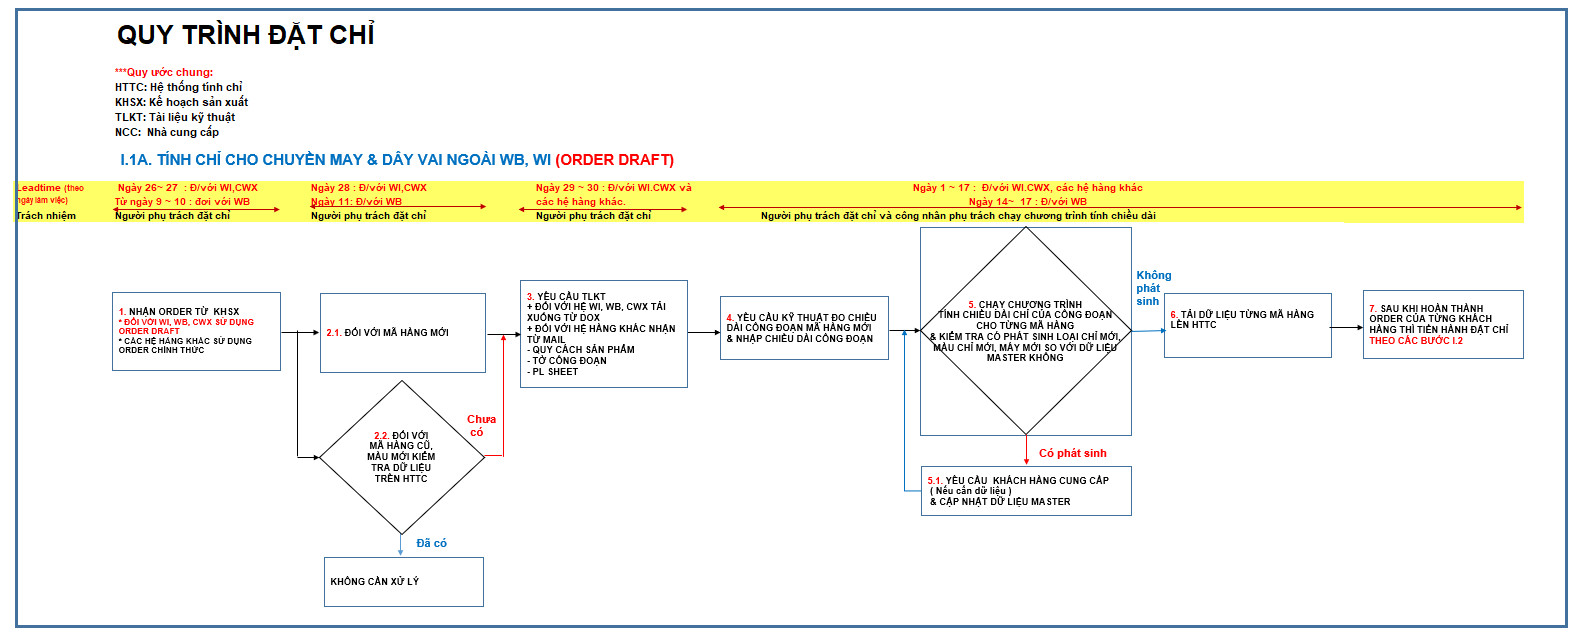
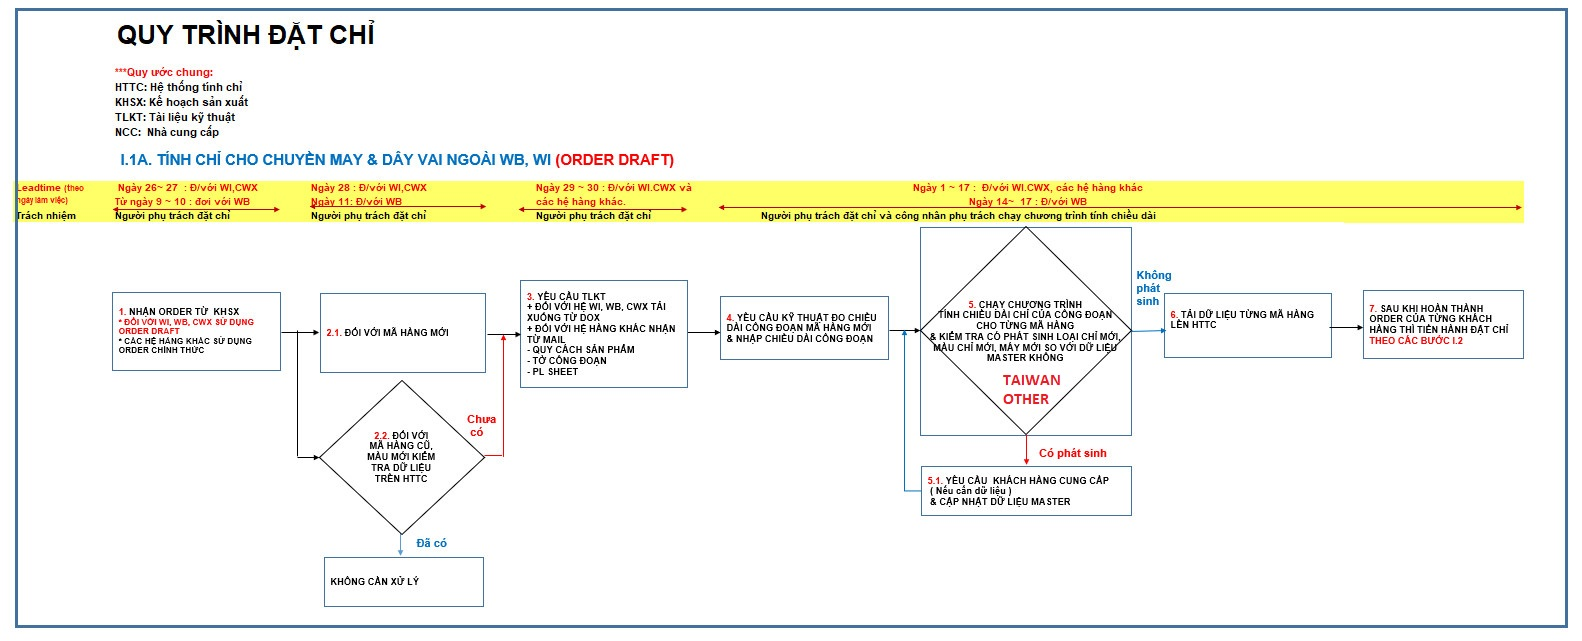
new code quy trinh kho 4:20 05-06-2024

diff --git a/Controlers/Kho/QTQLNVL.Control.js b/Controlers/Kho/QTQLNVL.Control.js
@@ -328,6 +328,14 @@ module.exports.QTQLNVLLoad = async(req,res) =>{
         })
     }
 
+    module.exports.TinhCDCD_5_TW= async(req, res) =>{
+        res.render('kho/QuyTrinh/TinhCDCD_5_TW',{
+            title:'',
+            userId:req.signedCookies.userId,
+           html:''
+        })
+    }
+
     module.exports.TinhCDCD_5= async(req, res) =>{
         res.render('kho/QuyTrinh/TinhCDCD_5',{
             title:'',
@@ -335,6 +343,26 @@ module.exports.QTQLNVLLoad = async(req,res) =>{
            html:''
         })
     }
+
+    module.exports.TinhChiChuyenMay_5_1= async(req, res) =>{
+        res.render('kho/QuyTrinh/TinhChiChuyenMay_5_1',{
+            title:'',
+            userId:req.signedCookies.userId,
+           html:''
+        })
+    }
+
+    
+
+    module.exports.TinhChiChuyenMay_6= async(req, res) =>{
+        res.render('kho/QuyTrinh/TinhChiChuyenMay_6',{
+            title:'',
+            userId:req.signedCookies.userId,
+           html:''
+        })
+    }
+
+    
 
     module.exports.YeuCauKyThuatDoCDCD_4= async(req, res) =>{
         res.render('kho/QuyTrinh/YeuCauKyThuatDoCDCD_4',{
@@ -426,6 +454,14 @@ module.exports.QTQLNVLLoad = async(req,res) =>{
 
     module.exports.QTQLNVLB8_1_I= async(req, res) =>{
         res.render('kho/QuyTrinh/QTQLNVLB8_1_I',{
+            title:'',
+            userId:req.signedCookies.userId,
+           html:''
+        })
+    }
+
+    module.exports.QTQLNVLB8_1_I_B1= async(req, res) =>{
+        res.render('kho/QuyTrinh/QTQLNVLB8_1_I_B1',{
             title:'',
             userId:req.signedCookies.userId,
            html:''

diff --git a/routes/kho.router.js b/routes/kho.router.js
@@ -135,7 +135,13 @@ router.get('/DoiVoiMHCuMauMoiTAIWAN',QTQLNVLControl.DoiVoiMHCuMauMoiTAIWAN)
 router.get('/YeuCauKyThuatDoCDCD_4',QTQLNVLControl.YeuCauKyThuatDoCDCD_4)
 router.get('/YeuCauKTDoCDCDTAIWAN',QTQLNVLControl.YeuCauKTDoCDCDTAIWAN)
 router.get('/YeuCauKTDoCDCDAVWAPSCWXAMPHIAWIVBVWBVC',QTQLNVLControl.YeuCauKTDoCDCDAVWAPSCWXAMPHIAWIVBVWBVC)
+
+router.get('/TinhCDCD_5_TW',QTQLNVLControl.TinhCDCD_5_TW)
 router.get('/TinhCDCD_5',QTQLNVLControl.TinhCDCD_5)
+router.get('/TinhChiChuyenMay_5_1',QTQLNVLControl.TinhChiChuyenMay_5_1)
+
+
+router.get('/TinhChiChuyenMay_6',QTQLNVLControl.TinhChiChuyenMay_6)
 
 
 router.get('/QTQLNVLB3',QTQLNVLControl.QTQLNVLB3)
@@ -148,6 +154,10 @@ router.get('/QTQLNVLB3IIIB',QTQLNVLControl.QTQLNVLB3IIIB)
 
 router.get('/QTQLNVLB8_1',QTQLNVLControl.QTQLNVLB8_1)
 router.get('/QTQLNVLB8_1_I',QTQLNVLControl.QTQLNVLB8_1_I)
+router.get('/QTQLNVLB8_1_I_B1',QTQLNVLControl.QTQLNVLB8_1_I_B1)
+
+
+
 router.get('/QTQLNVLB8_1_IIA',QTQLNVLControl.QTQLNVLB8_1_IIA)
 router.get('/QTQLNVLB8_1_IIB',QTQLNVLControl.QTQLNVLB8_1_IIB)
 
